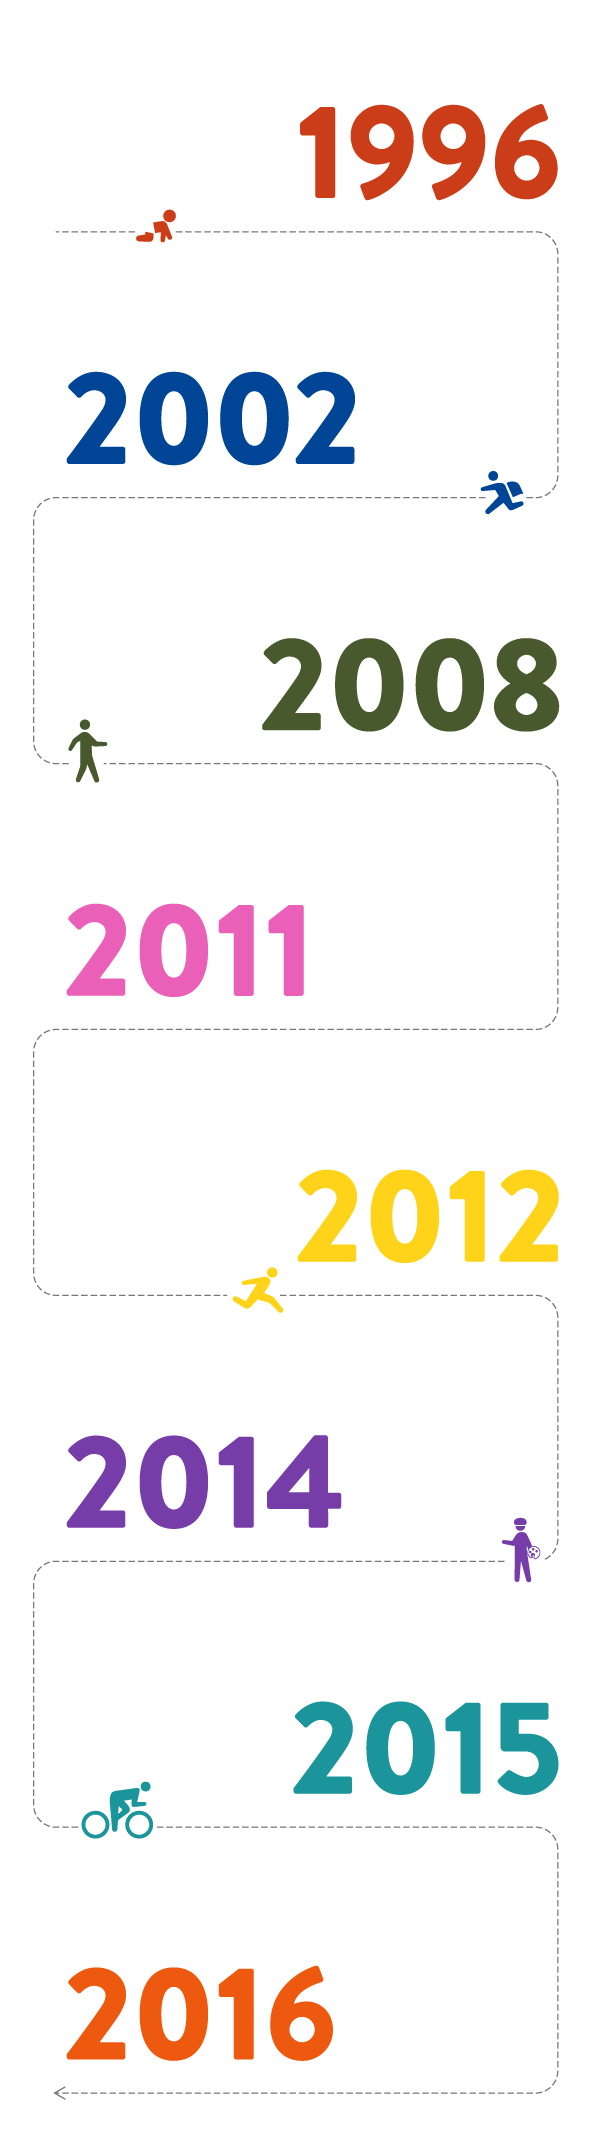
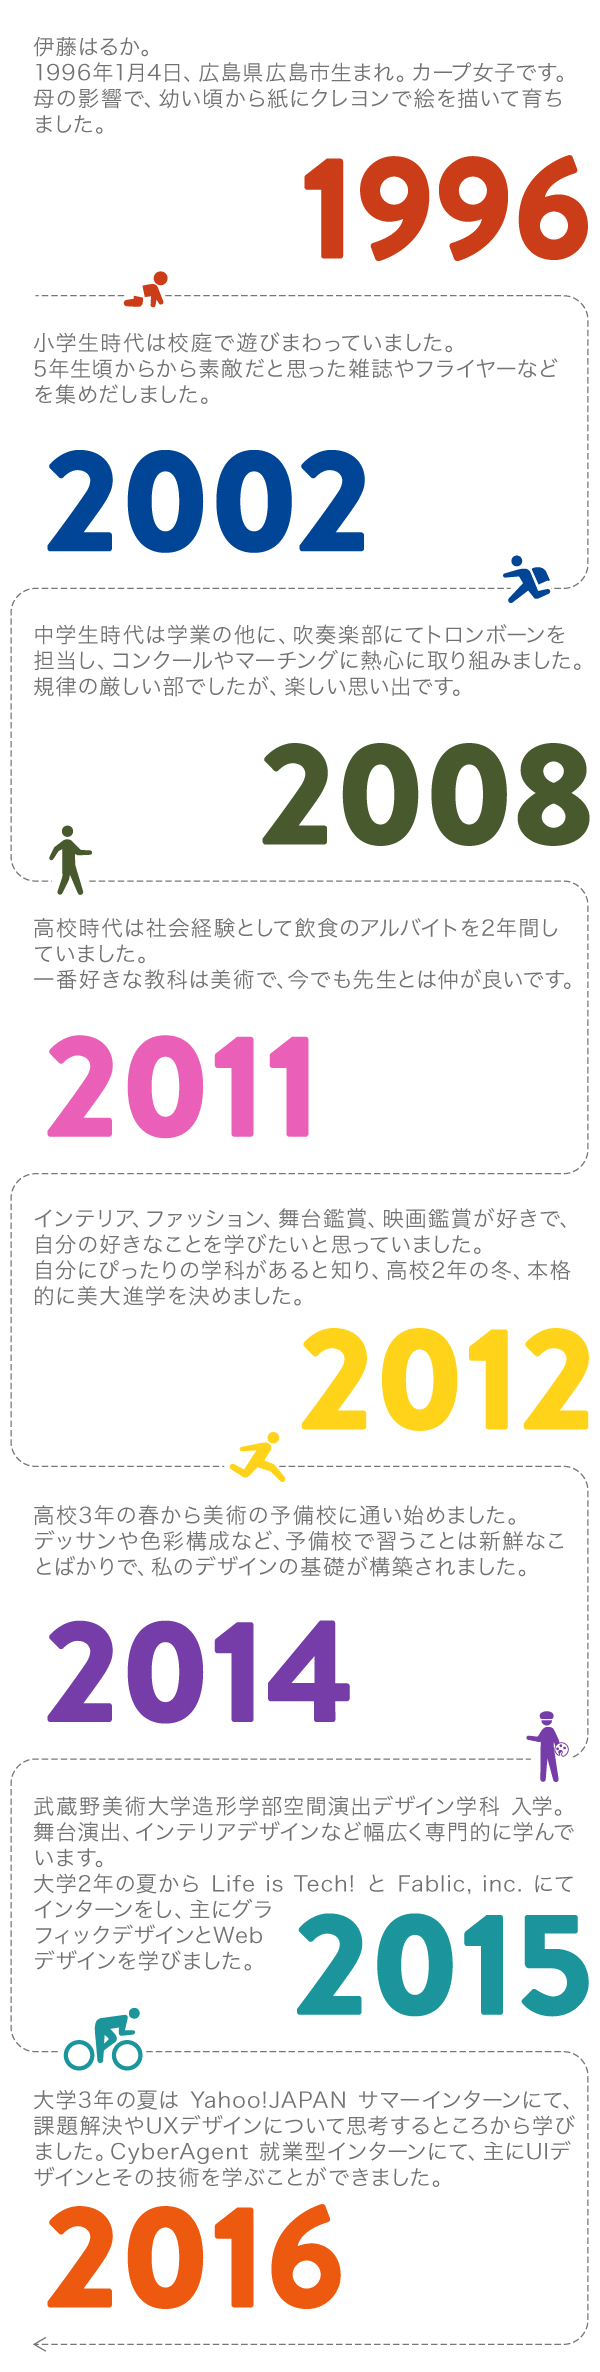
修正
profile

diff --git a/profile.html b/profile.html
@@ -33,7 +33,9 @@
       
 <div class="contents">
 
-<p>1996年1月4日、広島県広島市生まれ。カープ女子です。<br>アートが好きな母の影響で、幼い頃から絵を描いて育ちました。</p> 
+<p>伊藤はるか。<br>
+1996年1月4日、広島県広島市生まれ。カープ女子です。<br>
+母の影響で、幼い頃から紙にクレヨンで絵を描いて育ちました。</p> 
 
 </div>
 
@@ -46,7 +48,7 @@
 
 <div class="contents">
 
-<p>中学生時代は学業の他に、吹奏楽部にてトロンボーンを担当し、コンクールやマーチングに熱心に取り組んでいました。<br>
+<p>中学生時代は学業の他に、吹奏楽部にてトロンボーンを担当し、コンクールやマーチングに熱心に取り組みました。<br>
 規律の厳しい部でしたが、楽しい思い出です。</p> 
 
 </div>
@@ -60,7 +62,7 @@
 
 <div class="contents">
 
-<p>インテリア、ファッション、舞台が好きで、自分の好きなことを学びたいと思っていました。<br>
+<p>インテリア、ファッション、舞台鑑賞、映画鑑賞が好きで、自分の好きなことを学びたいと思っていました。<br>
 自分にぴったりの学科があると知り、高校2年の冬、本格的に美大進学を決めました。</p> 
 
 </div>
@@ -74,15 +76,16 @@
 
 <div class="contents">
 
-<p>武蔵野美術大学 造形学部 空間演出デザイン学科 入学。舞台演出、インテリアデザインなど幅広く専門的に学びました。<br>
-大学2年の夏から Life is Tech! と Fablic, inc. にてインターンをしており、グラフィックデザインとWebデザインを学びました。</p> 
+<p>武蔵野美術大学造形学部空間演出デザイン学科 入学。<br>
+舞台演出、インテリアデザインなど幅広く専門的に学びました。<br>
+大学2年の夏から Life is Tech! と Fablic, inc. にてインターンをし、主にグラフィックデザインとWebデザインを学びました。</p> 
 
 </div>
 
 <div class="contents">
 
-<p>大学3年の夏は Yahoo!JAPAN サマーインターンにて、課題解決やUXデザインについて思考するところから学ぶことができました。<br>
-CyberAgent 就業型インターンにて、主にUIデザインとその技術を学ぶことができました。</p> 
+<p>大学3年の夏は Yahoo!JAPAN サマーインターンにて、課題解決やUXデザインについて思考するところから学びました。<br>
+CyberAgent 就業型インターンにて、主にUIデザインとその技術を学びました。</p> 
 
 
 </div>

diff --git a/stylesheets/styles.css b/stylesheets/styles.css
@@ -315,16 +315,17 @@ div.box {
 @media print, screen and (max-width: 480px) {
   section {
     padding: 15px;
+	  background-image: url(../images/nenpyou02.jpg);
+	  background-size: contain;
+	  background-repeat: no-repeat;
   }
 	div.profile {
 		height: 1010px;
+		background: none;
 		
 	}
 	div.contents {
-		font-size: 8px;
-		margin: 8px;
-		margin-bottom: 39px;
-		line-height: 1.1;
+		visibility: hidden;
 	}
 }
  
